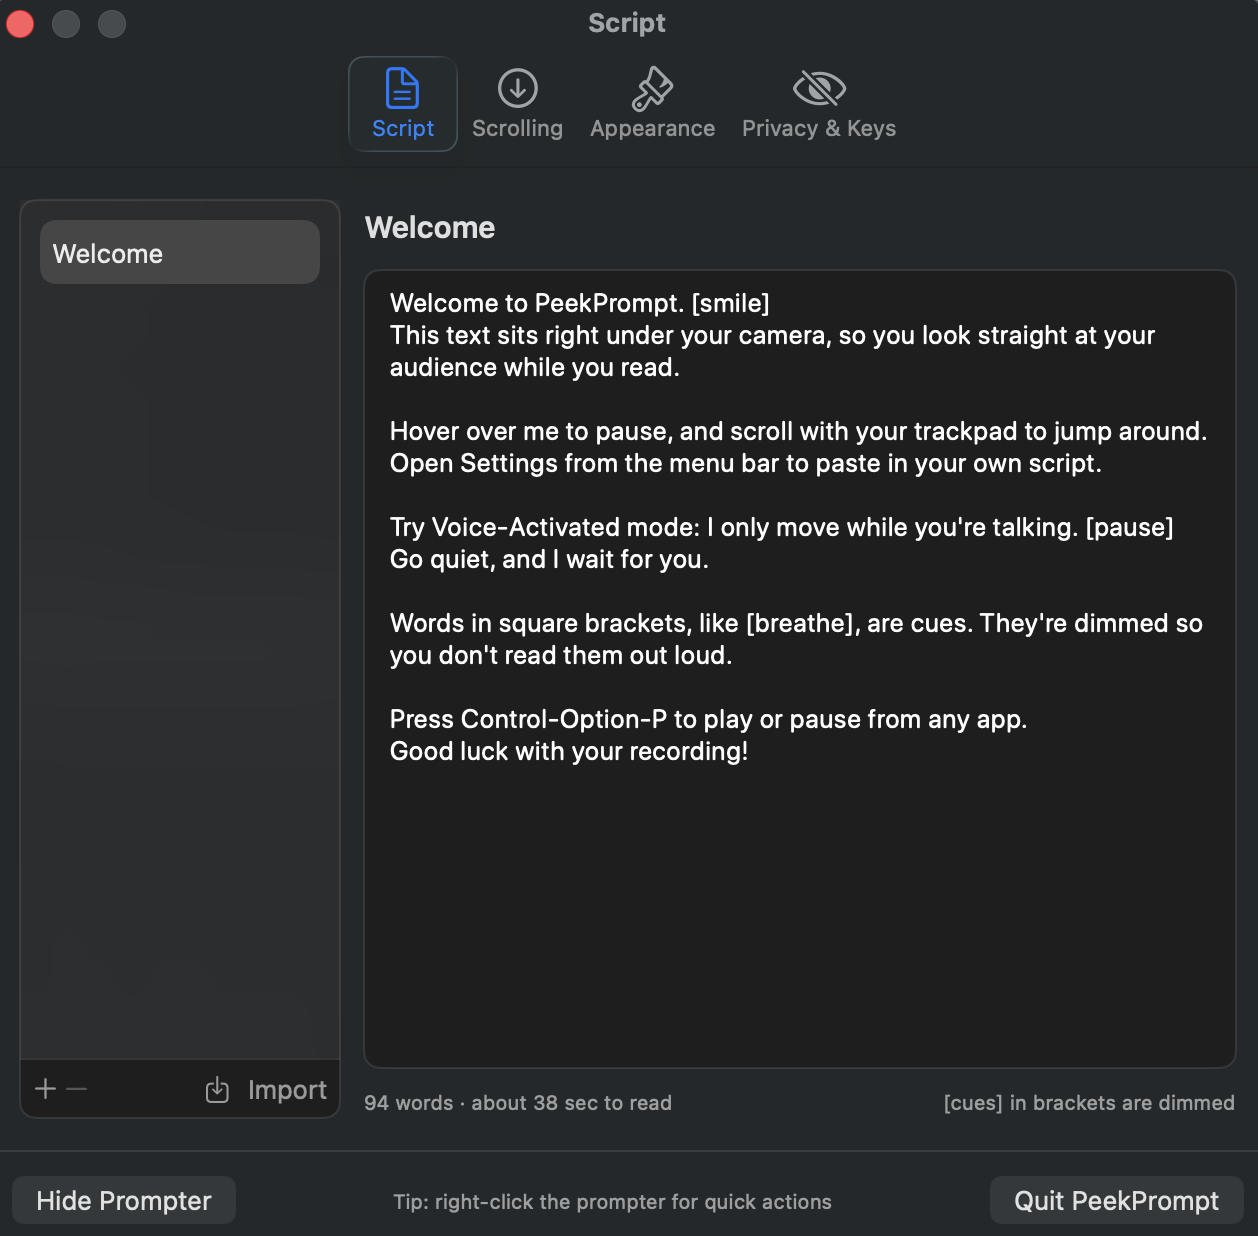
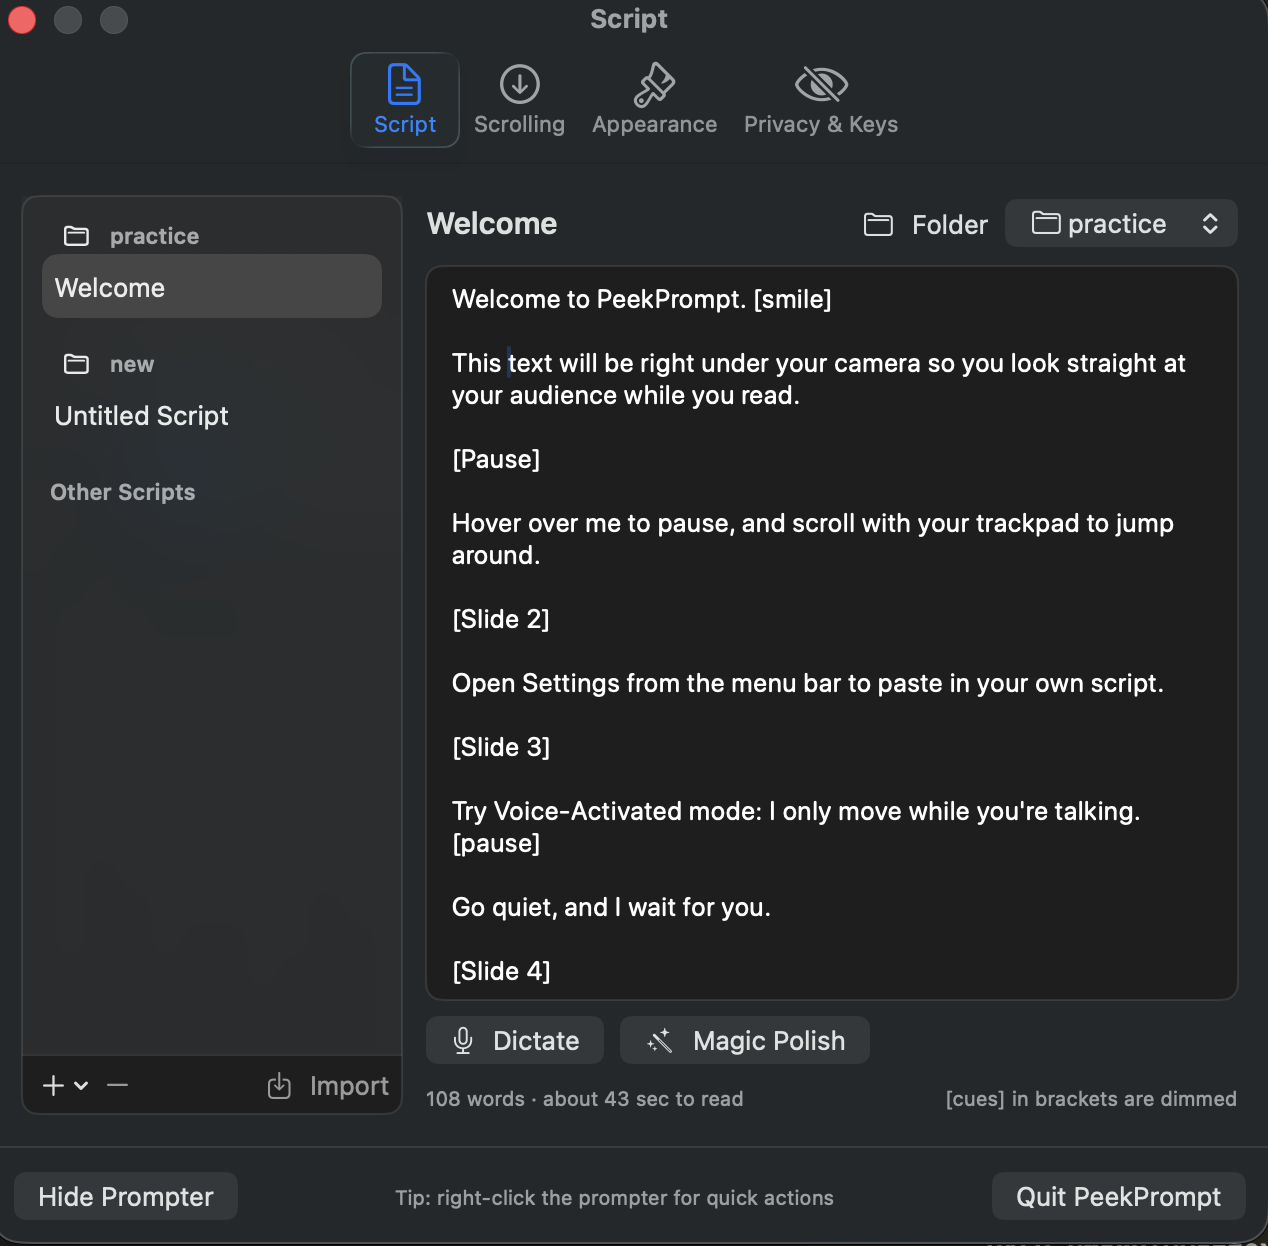
Update README screenshots for the new settings
Claude-Session: https://claude.ai/code/session_01GWGuEuW93vTQcLQMLteSPz

diff --git a/README.md b/README.md
@@ -48,7 +48,7 @@ After launch, PeekPrompt slides down from your notch with a sample script. There
 - There's also a menu bar icon, but on crowded MacBook menu bars macOS may hide it behind the notch.
 
 ### Writing and managing scripts
-<p align="center"><img src="docs/screens/script.png" width="560" alt="Script tab with the script library, editor and Import button"></p>
+<p align="center"><img src="docs/screens/script.png" width="560" alt="Script tab with folders, the script library, Folder menu, editor, Dictate and Magic Polish"></p>
 
 Open **Settings → Script**.
 - The list on the left is your **script library**. Click **+** to add a script, **−** to delete one, or right-click a script to duplicate it.
@@ -73,7 +73,7 @@ Click **Import** at the bottom of the script list and pick one or more files:
 Each file becomes a new script named after the file.
 
 ### Choosing how it scrolls
-<p align="center"><img src="docs/screens/modes.png" width="560" alt="Scrolling mode picker: Classic, Voice-Activated, Word Tracking"></p>
+<p align="center"><img src="docs/screens/modes.png" width="560" alt="Scrolling mode picker: Classic, Voice-Activated and Word Tracking"></p>
 
 Open **Settings → Scrolling**, or click the mode button in the hover controls to cycle through the modes.
 
@@ -90,22 +90,25 @@ Open **Settings → Scrolling**, or click the mode button in the hover controls 
 **Word Tracking** uses Apple's speech recognition. When your Mac supports it, it runs entirely on-device. The first time, macOS asks for permission.
 
 ### Presenting slides and memorizing
+<p align="center"><img src="docs/screens/presenting.png" width="560" alt="Presentation mode and Memorize mode settings"></p>
+
 In **Settings → Scrolling → Presenting & practice**:
 - **Presentation mode** shows one slide at a time. Slides are separated by a `[Slide 1]` line, added automatically when you import a PowerPoint, or by a line with just `---`. Move between slides with **⌃⌥→ / ⌃⌥←**, the arrows in the hover controls, the phone remote, or Siri ("Next slide in PeekPrompt"). The area beside the notch shows "Slide 2/8".
 - **Memorize mode** shows one paragraph at a time and hides words: some, most, or all but first letters. Raise the level as you learn the script. In Word Tracking mode, hidden words reappear as you say them.
 
 ### Before you start: countdown and pacing
-<p align="center"><img src="docs/screens/speed.png" width="560" alt="Scroll speed, auto speed, pause on hover, target length and countdown settings"></p>
+<p align="center"><img src="docs/screens/speed.png" width="560" alt="Scroll speed, auto speed, pause on hover, target length, end-of-script and countdown settings"></p>
 
 - **Countdown:** pressing Play from the top shows 3… 2… 1… first, so you have time to look at the camera. Change it to 5 or 10 seconds, or turn it off, in Settings → Scrolling.
 - **Pacing timer:** set a **Target length**, for example 2 min. The area to the right of the notch then shows elapsed time against your target, and whether you're **on time** (green), **behind** (orange) or **ahead** (blue).
 
 ### Making it comfortable to read
-<p align="center"><img src="docs/screens/fonts.png" width="560" alt="Font menu showing Rounded, Standard, Serif, Monospaced and OpenDyslexic"></p>
+<p align="center"><img src="docs/screens/text.png" width="560" alt="Text settings: font, theme, background opacity, font size, line spacing and reading-line highlight"></p>
 
 Open **Settings → Appearance**.
 - **Font:** Rounded, Standard, Serif, Monospaced, or **OpenDyslexic**, which is designed for readers with dyslexia.
 - **Theme:** Dark or Light.
+- **Background opacity:** lower it to see what's behind the prompter.
 - **Font size, line spacing, width and height.**
 - **Highlight the line you're reading:** the current line is full brightness and the rest is dimmed, so your eyes don't wander.
 
